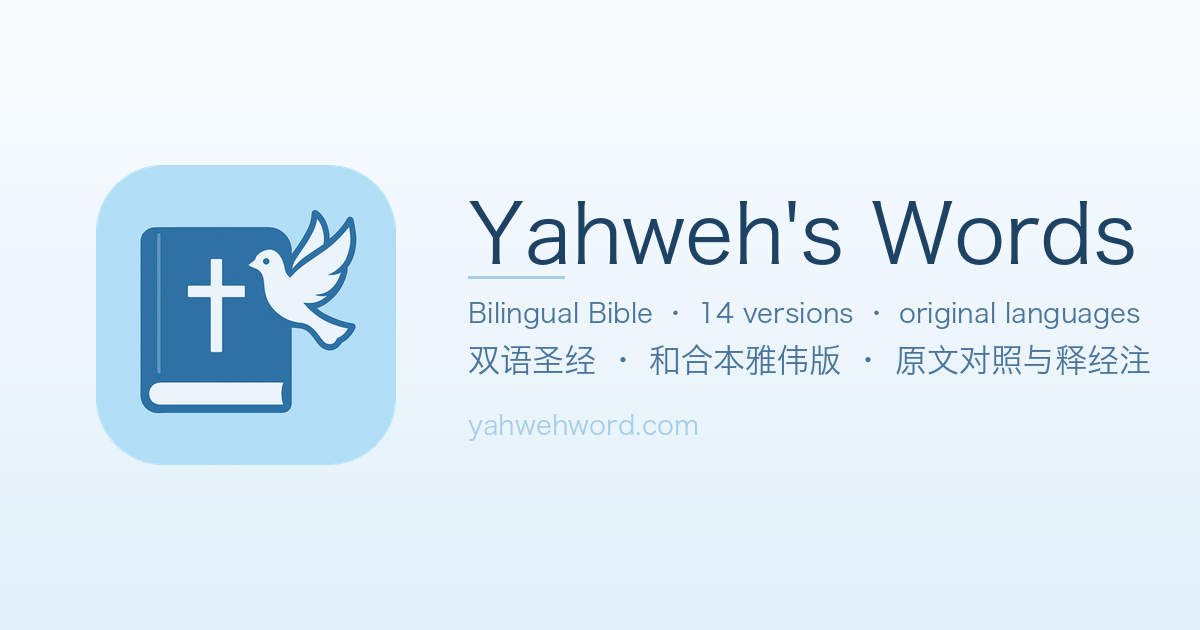
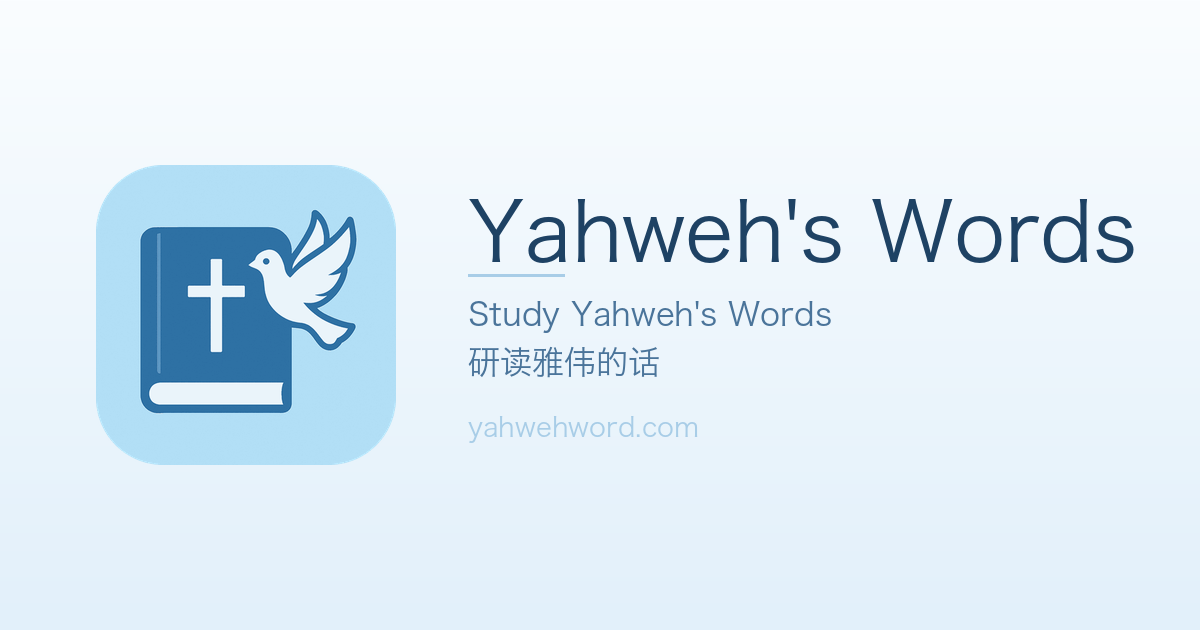
Unify marketing tagline as Study Yahweh's Words

diff --git a/web/index.html b/web/index.html
@@ -55,7 +55,7 @@
        They are what makes this app findable AT ALL: no other Bible site
        carries them, so they are the queries that can actually be won,
        while "bible app" cannot. -->
-  <meta name="description" content="Yahweh's Words — a free bilingual Bible: 和合本雅伟版、梁家铿译本、KJV、NASB、LEB, original Greek &amp; Hebrew, cross-references, sermons and hymns. 雅伟之言 —— 免费的中英对照圣经。">
+  <meta name="description" content="Study Yahweh's Words: 和合本雅伟版、梁家铿译本、KJV、NASB、LEB, original Greek &amp; Hebrew, cross-references, sermons and hymns. 雅伟之言 —— 免费的中英对照圣经。">
 
   <!-- Kept even though Google has ignored keywords since 2009: Baidu
        and Sogou still read it, and a large share of this app's readers
@@ -91,13 +91,13 @@
        whenever the name, tagline or domain changes. -->
   <meta property="og:type" content="website">
   <meta property="og:site_name" content="Yahweh's Words">
-  <meta property="og:title" content="Yahweh's Words — Bilingual Bible 双语圣经">
-  <meta property="og:description" content="A free bilingual Bible: 和合本雅伟版、梁家铿译本、KJV、NASB、LEB, original Greek &amp; Hebrew, cross-references, sermons and hymns. 雅伟之言 —— 中英对照，免费使用。">
+  <meta property="og:title" content="Study Yahweh's Words">
+  <meta property="og:description" content="Study Yahweh's Words: 和合本雅伟版、梁家铿译本、KJV、NASB、LEB, original Greek &amp; Hebrew, cross-references, sermons and hymns. 雅伟之言 —— 中英对照，免费使用。">
   <meta property="og:url" content="https://yahwehword.com/">
   <meta property="og:image" content="https://yahwehword.com/og-card.png">
   <meta property="og:image:width" content="1200">
   <meta property="og:image:height" content="630">
-  <meta property="og:image:alt" content="Yahweh's Words — bilingual Bible reader">
+  <meta property="og:image:alt" content="Study Yahweh's Words">
   <!-- The app ships one UI in three scripts at the SAME url, so there
        is nothing for hreflang to point at (it needs distinct URLs per
        language and inventing them would be worse than omitting it).
@@ -107,8 +107,8 @@
   <meta property="og:locale:alternate" content="zh_TW">
 
   <meta name="twitter:card" content="summary_large_image">
-  <meta name="twitter:title" content="Yahweh's Words — Bilingual Bible 双语圣经">
-  <meta name="twitter:description" content="A free bilingual Bible: 和合本雅伟版、梁家铿译本、KJV、NASB、LEB, original Greek &amp; Hebrew, cross-references, sermons and hymns. 雅伟之言 —— 中英对照，免费使用。">
+  <meta name="twitter:title" content="Study Yahweh's Words">
+  <meta name="twitter:description" content="Study Yahweh's Words: 和合本雅伟版、梁家铿译本、KJV、NASB、LEB, original Greek &amp; Hebrew, cross-references, sermons and hymns. 雅伟之言 —— 中英对照，免费使用。">
   <meta name="twitter:image" content="https://yahwehword.com/og-card.png">
 
   <!-- Structured data. Deliberately NOT claimed here: aggregateRating
@@ -128,7 +128,7 @@
         "url": "https://yahwehword.com/",
         "name": "Yahweh's Words",
         "alternateName": ["雅伟之言", "雅偉之言"],
-        "description": "Free bilingual Bible reader with 和合本雅伟版, 梁家铿译本, KJV, NASB and LEB, original-language text, cross-references, sermons and hymns.",
+        "description": "Study Yahweh's Words with 和合本雅伟版, 梁家铿译本, KJV, NASB and LEB, original-language text, cross-references, sermons and hymns.",
         "inLanguage": ["en", "zh-Hans", "zh-Hant"]
       },
       {
@@ -802,10 +802,10 @@
            applied to the one page that has to serve both at once because
            it runs with JavaScript off and cannot ask who is reading. -->
       <h1>Yahweh's Words</h1>
-      <p>A free bilingual Bible reader — English and Chinese side by side,
+      <p>Study Yahweh's Words — English and Chinese side by side,
          for listening to His voice and abiding in Him daily.</p>
       <p class="ys-name-zh" lang="zh-Hans">雅伟之言</p>
-      <p lang="zh-Hans">免费的双语圣经阅读工具 —— 中英对照，帮助你每天听祂的声音、住在祂里面。</p>
+      <p lang="zh-Hans">研读雅伟的话 —— 中英对照，帮助你每天听祂的声音、住在祂里面。</p>
 
       <h2>Translations · 收录译本</h2>
       <p>和合本雅伟版（简体・繁體）、梁家铿译本（简体・繁體）、King James Version、

diff --git a/web/about.html b/web/about.html
@@ -448,9 +448,9 @@
       </div>
       <p class="en"><span data-l="hans">Yahweh’s Words</span><span data-l="hant">Yahweh’s Words</span><span data-l="en">雅伟之言</span></p>
       <p class="what">
-        <span data-l="hans">中英对照的圣经：和合本雅伟版、梁家铿译本、KJV、LEB，附希腊文与希伯来文原文、串珠、讲道与诗歌。</span>
-        <span data-l="hant">中英對照的聖經：和合本雅偉版、梁家鏗譯本、KJV、LEB，附希臘文與希伯來文原文、串珠、講道與詩歌。</span>
-        <span data-l="en">A bilingual Bible — CUV (Yahweh), the LJK Chinese translation, KJV and LEB — with the original Greek and Hebrew, cross-references, sermons and hymns.</span>
+        <span data-l="hans">研读雅伟的话：和合本雅伟版、梁家铿译本、KJV、LEB，附希腊文与希伯来文原文、串珠、讲道与诗歌。</span>
+        <span data-l="hant">研讀雅偉的話：和合本雅偉版、梁家鏗譯本、KJV、LEB，附希臘文與希伯來文原文、串珠、講道與詩歌。</span>
+        <span data-l="en">Study Yahweh's Words — CUV (Yahweh), the LJK Chinese translation, KJV and LEB, with the original Greek and Hebrew, cross-references, sermons and hymns.</span>
       </p>
       <p class="host">yahwehword.com</p>
       <div class="links">

diff --git a/lib/pages/dashboard_page.dart b/lib/pages/dashboard_page.dart
@@ -1341,7 +1341,7 @@ class _HomeFooter extends StatelessWidget {
   @override
   Widget build(BuildContext context) {
     final tagline =
-        uiStrings['appTagline']?[locale] ?? 'A bilingual Bible study app.';
+        uiStrings['appTagline']?[locale] ?? "Study Yahweh's Words";
     final updated =
         (uiStrings['homeFooterUpdated']?[locale] ?? 'Updated {time}')
             .replaceFirst('{time}', formatReleaseTimeLocal());

diff --git a/lib/pages/settings_page.dart b/lib/pages/settings_page.dart
@@ -4134,7 +4134,7 @@ class _AboutCard extends StatelessWidget {
             SizedBox(height: 4 * s),
             Text(
               uiStrings['appTagline']?[locale] ??
-                  'A bilingual Bible study app.',
+                  "Study Yahweh's Words",
               textAlign: TextAlign.center,
               style: TextStyle(
                 fontFamily: settings.fontFamily, fontFamilyFallback: kCjkFontFallback,

diff --git a/lib/pages/about_page.dart b/lib/pages/about_page.dart
@@ -234,7 +234,7 @@ class _Header extends StatelessWidget {
                   const SizedBox(height: 2),
                   Text(
                     uiStrings['appTagline']?[locale] ??
-                        'A bilingual Bible study app.',
+                        "Study Yahweh's Words",
                     style: TextStyle(
                       fontSize: 12,
                       color: scheme.onSurfaceVariant,

diff --git a/lib/constants/ui_strings.dart b/lib/constants/ui_strings.dart
@@ -4056,9 +4056,9 @@ const uiStrings = {
     'en': 'About',
   },
   'appTagline': {
-    'zh-Hans': '双语圣经研读应用。',
-    'zh-Hant': '雙語聖經研讀應用。',
-    'en': 'A bilingual Bible study app.',
+    'zh-Hans': '研读雅伟的话。',
+    'zh-Hant': '研讀雅偉的話。',
+    'en': "Study Yahweh's Words",
   },
   'contactIntro': {
     'zh-Hans': '作者 Paul Liu',

diff --git a/tools/generate_site_icons.py b/tools/generate_site_icons.py
@@ -199,8 +199,7 @@ def build_manifest(name: str, short_name: str) -> dict:
         "background_color": "#ffffff",
         "theme_color": "#2196F3",
         "description": (
-            "YsWords means Yahweh's words. A bilingual Bible app to help "
-            "you listen to His voice and abide in Him daily."
+            "Study Yahweh's Words. Listen to His voice and abide in Him daily."
         ),
         # No "orientation" key. It used to say "portrait-primary", and
         # Android honours that lock for an installed PWA while iOS/iPadOS

diff --git a/tools/make_og_card.py b/tools/make_og_card.py
@@ -163,8 +163,8 @@ def main():
     # a regex over every catalog row — which is why this reads 9 and
     # not 12. The hidden NASB and the two hidden Greek texts had been
     # counted here since the day each was hidden.
-    tag_en = 'Bilingual Bible · 14 versions · original languages'
-    tag_zh = '双语圣经 · 和合本雅伟版 · 原文对照与释经注'
+    tag_en = "Study Yahweh's Words"
+    tag_zh = '研读雅伟的话'
     domain = 'yahwehword.com'
 
     f_name = fitted(name, 82)

diff --git a/docs/tagline-study-yahwehs-words-2026-10-07.md b/docs/tagline-study-yahwehs-words-2026-10-07.md
@@ -1,0 +1,35 @@
+# Shared tagline — 2026-10-07
+
+Owner explicitly selected the same tagline for both apps; product names stay unchanged.
+
+| Locale | Tagline / store subtitle |
+| --- | --- |
+| English | Study Yahweh's Words |
+| Simplified Chinese | 研读雅伟的话 |
+| Traditional Chinese | 研讀雅偉的話 |
+
+English subtitle is 20 characters, suitable for the 30-character App Store subtitle field. Use the same lead phrase in Google Play short descriptions, Microsoft listing descriptions, website metadata and app About/Settings/footer. Preserve accurate feature details and existing translations/screenshots following the lead. Do not edit Bible text, permission titles, historical release records or references merely because they describe bilingual content.
+
+## Source preparation
+
+The shared appTagline and fallback strings, README introduction, pubspec descriptions, web manifests and search/share metadata have been changed locally. Words site-specific manifest overlays and their generator use the new phrase too. The social-card generator has the updated English and Chinese tagline. No version bump, tag mutation, production deployment or native/store package rebuild is part of this wording task; changes require the next authorized build/deployment.
+
+## Store gates observed
+
+Words App Store App Information explicitly shows old English subtitle `A bilingual Bible`, disabled because macOS 1.6.34 is In Review. Apple says editing requires removing that review. Preserve the pending review and apply the prepared subtitle once unlocked; do not cancel for wording. Words iOS 1.7.11 now shows Ready for Distribution.
+
+Words Google Alpha1.7.3 remains in review; latest Alpha1.7.12 and data-safety changes are saved unsubmitted. A metadata edit must not cancel/restart that review. Keep same/newer packages, identities, approved screenshots and privacy declarations.
+
+Google/Microsoft/Apple live publication must be reported separately from local wording edits. No source preparation alone proves a live listing changed.
+
+## Saved store wording checkpoint
+
+Sword App Store English subtitle was saved successfully as `Study Yahweh's Words` (Saved confirmation), with pending iOS 1.7.8 and Mac 1.6.329 reviews preserved. Apple says changes release with the next app version; this is not a live-publication claim. Only English is available in its disabled language picker.
+
+Both Google Play default listings now have the English, Simplified Chinese and Traditional Chinese short descriptions saved as drafts. Google showed `Your changes have been saved`; no review was cancelled or restarted and no package changed. Full descriptions and visual assets were preserved.
+
+Words social share card was regenerated from the existing project renderer and logo. No native tests or builds were run for this copy-only task.
+
+Microsoft Words metadata-only draft Submission13 `1152921505702059790` preserves the inherited validated package. All three descriptions have the matching tagline prepended and were saved. Sword metadata draft Submission10 `1152921505702059903` has been created from its published listing for the same edit. These draft IDs must be reused rather than creating duplicates. Certification/publication are separate from saving a draft.
+
+Final copy checkpoint: Sword Microsoft English/Simplified/Traditional description edits were also saved; both Microsoft drafts now contain all three matching tagline leads. All original full descriptions, screenshots, package selection, languages and listing identities were retained. Metadata remains drafted, not certified/published. Basic diff whitespace and manifest JSON syntax inspection completed; no runtime tests were requested or run.

diff --git a/README.md b/README.md
@@ -6,7 +6,7 @@
   <img src="assets/app_icon_rounded.png" alt="Yahweh's Words app icon" width="80"/>
 </p>
 
-<p align="center"><em>A bilingual Bible reader for Yahweh's words built with Flutter.</em></p>
+<p align="center"><em>Study Yahweh's Words</em></p>
 
 <p align="center">
   <a href="https://yahwehword.com">
